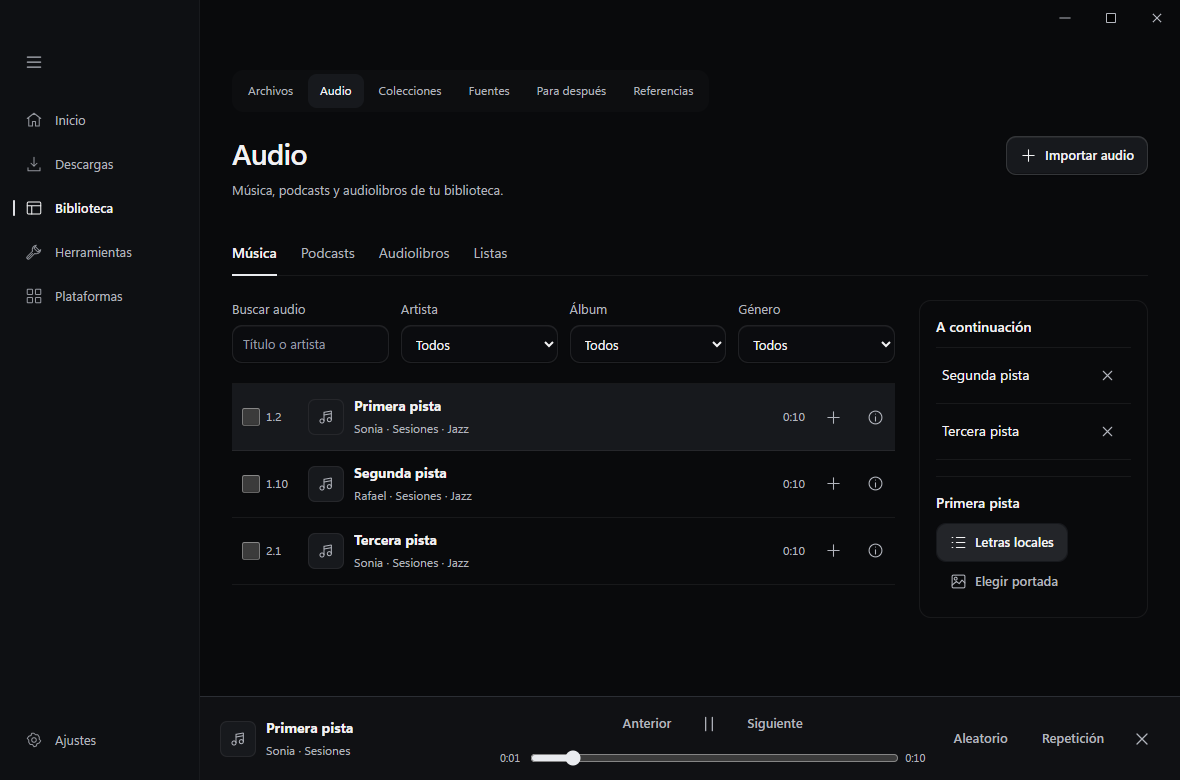
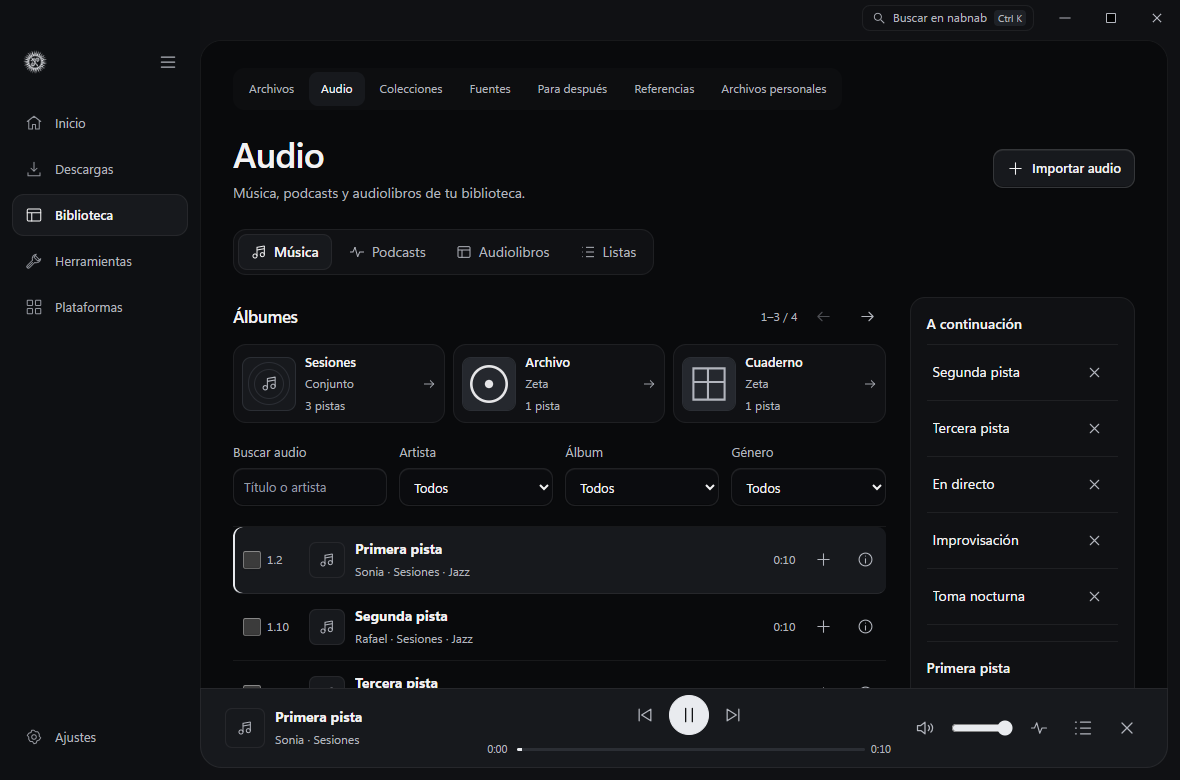
Improve audio browsing

diff --git a/src/audio-library-ui.ts b/src/audio-library-ui.ts
@@ -3,8 +3,9 @@ import { audioTitle, isAudiobook, type createAudioPlayer } from "./audio-player"
 import { escapeHtml as h, type Copy, type LibraryItem, type Snapshot } from "./contracts";
 import { detailsFor } from "./library-features";
 import type { AudioPlaylist, AudioPlaylistEntry, AudioTags, Lyric } from "./library-types";
+import { audiobookChapterComplete, audiobookResumePosition } from "./playback-preferences";
 import { durationLabel } from "./presentation";
-import { action, icon, option } from "./views-common";
+import { action, icon, option, type Icon } from "./views-common";
 
 type Category = "music" | "podcasts" | "books" | "playlists";
 type TagField = Exclude<keyof AudioTags, "embeddedCover">;
@@ -15,6 +16,7 @@ export type ImportPreview =
   | { kind: "csv"; id: string; name: string; columns: string[]; sample: string[][]; count: number }
   | { kind: "list"; name: string; rows: ImportedRow[] };
 const categories: Category[] = ["music", "podcasts", "books", "playlists"];
+const categoryIcons: Record<Category, Icon> = { music: "audio", podcasts: "wave", books: "library", playlists: "list" };
 const tagFields: TagField[] = ["title", "artist", "albumArtist", "album", "genre", "disc", "track"];
 const columns: Column[] = ["locator", "id", "title", "artist", "duration", "version"];
 const columnAliases: Record<Column, string[]> = {
@@ -25,6 +27,7 @@ const columnAliases: Record<Column, string[]> = {
 };
 const speeds = new Intl.Collator(undefined, { numeric: true, sensitivity: "base" });
 const PAGE_SIZE = 60;
+const SHELF_SIZE = 3;
 
 interface Hooks {
   snapshot(): Snapshot;
@@ -72,6 +75,7 @@ export function createAudioLibrary(hooks: Hooks) {
   let category: Category = "music";
   let artist = "", album = "", genre = "", book = "", query = "";
   let offset = 0;
+  let shelfOffset = 0;
   let selected = new Set<string>();
   let tagDraft: Partial<Record<TagField, string>> | null = null;
   let tagPreview = false;
@@ -154,6 +158,85 @@ export function createAudioLibrary(hooks: Hooks) {
         : category === "books" ? filterSelect("book", t("Libro", "Book"), books, book) : ""}</div>`;
   }
 
+  function cover(item: LibraryItem, kind: "album" | "book") {
+    const hasCover = !item.missing && (item.details?.audioCover || item.details?.audio?.embeddedCover);
+    return `<span class="audio-shelf-cover audio-shelf-cover--${kind}" ${hasCover ? `data-thumbnail-id="${h(item.id)}"` : ""} aria-hidden="true">${icon(kind === "album" ? "audio" : "library")}</span>`;
+  }
+
+  function shelf(items: LibraryItem[]) {
+    if (category !== "music" && category !== "books") return "";
+    const music = category === "music";
+    const chosen = music ? album : book;
+    const groupKey = music ? albumKey : bookKey;
+    const titleFor = (item: LibraryItem) => music ? item.details?.audio?.album || t("Sin álbum", "No album")
+      : item.details?.audiobook?.bookTitle || audioTitle(item);
+    if (chosen) {
+      return `<div class="audio-shelf-trail">${action("audio-shelf-clear", music ? t("Todos los álbumes", "All albums") : t("Todos los libros", "All books"), "back", "quiet")}${items[0] ? `<strong>${h(titleFor(items[0]))}</strong>` : ""}</div>`;
+    }
+
+    const groups = new Map<string, LibraryItem[]>();
+    for (const item of items) {
+      if (music && !item.details?.audio?.album) continue;
+      const key = groupKey(item);
+      const group = groups.get(key);
+      if (group) group.push(item); else groups.set(key, [item]);
+    }
+    if (!groups.size) return "";
+    const label = music ? t("Álbumes", "Albums") : t("Estantería", "Bookshelf");
+    const entries = [...groups.entries()];
+    shelfOffset = Math.min(shelfOffset, Math.floor((entries.length - 1) / SHELF_SIZE) * SHELF_SIZE);
+    return `<section class="audio-shelf" aria-label="${label}"><div class="audio-shelf-heading"><h2>${label}</h2>
+      ${entries.length > SHELF_SIZE ? `<div class="audio-shelf-navigation"><span>${shelfOffset + 1}–${Math.min(shelfOffset + SHELF_SIZE, entries.length)} / ${entries.length}</span>
+        ${action("audio-shelf-back", t("Grupos anteriores", "Previous groups"), "back", "icon-button", `aria-label="${t("Grupos anteriores", "Previous groups")}" ${shelfOffset ? "" : "disabled"}`)}
+        ${action("audio-shelf-next", t("Grupos siguientes", "Next groups"), "arrow", "icon-button", `aria-label="${t("Grupos siguientes", "Next groups")}" ${shelfOffset + SHELF_SIZE >= entries.length ? "disabled" : ""}`)}</div>` : ""}</div>
+      <ul class="audio-shelf-items">${entries.slice(shelfOffset, shelfOffset + SHELF_SIZE).map(([key, group]) => {
+        const item = group[0];
+        const art = group.find(candidate => !candidate.missing && (candidate.details?.audioCover || candidate.details?.audio?.embeddedCover)) ?? item;
+        const subtitle = music ? item.details?.audio?.albumArtist || item.details?.audio?.artist : item.details?.audiobook?.reader;
+        const chapters = !music && !item.details?.audiobook ? item.details?.chapters.length ?? 0 : 0;
+        const total = chapters || group.length;
+        const count = music ? (total === 1 ? t("pista", "track") : t("pistas", "tracks"))
+          : chapters || item.details?.audiobook ? (total === 1 ? t("capítulo", "chapter") : t("capítulos", "chapters"))
+          : (total === 1 ? t("archivo", "file") : t("archivos", "files"));
+        return `<li><button type="button" class="audio-shelf-item" data-action="audio-shelf-open" data-id="${h(key)}">
+          ${cover(art, music ? "album" : "book")}<span class="audio-shelf-copy"><strong>${h(titleFor(item))}</strong>${subtitle ? `<span>${h(subtitle)}</span>` : ""}<small>${total} ${count}</small></span>
+          ${icon("arrow")}</button></li>`;
+      }).join("")}</ul></section>`;
+  }
+
+  function continueBook(items: LibraryItem[]) {
+    if (category !== "books") return "";
+    const chapters = items.filter(item => !item.missing && (!book || bookKey(item) === book)).sort(compareChapters);
+    const books = new Map<string, LibraryItem[]>();
+    for (const chapter of chapters) {
+      const key = bookKey(chapter);
+      const group = books.get(key);
+      if (group) group.push(chapter); else books.set(key, [chapter]);
+    }
+    const recent = chapters.filter(item => (item.details?.playbackPosition ?? 0) > 0)
+      .sort((left, right) => (right.details?.lastPlayedAt ?? 0) - (left.details?.lastPlayedAt ?? 0));
+    const reviewed = new Set<string>();
+    for (const last of recent) {
+      const key = bookKey(last);
+      if (reviewed.has(key)) continue;
+      reviewed.add(key);
+      const group = books.get(key) ?? [];
+      const next = audiobookChapterComplete(last.details?.playbackPosition ?? 0, last.duration)
+        ? group.slice(group.indexOf(last) + 1).find(item => !audiobookChapterComplete(item.details?.playbackPosition ?? 0, item.duration))
+        : last;
+      if (!next) continue;
+      const chapter = next.details?.audiobook;
+      const title = chapter?.bookTitle ?? audioTitle(next);
+      const position = audiobookResumePosition(next.details?.playbackPosition ?? 0, next.duration);
+      const detail = [chapter ? `${t("Capítulo", "Chapter")} ${chapter.chapter}` : "",
+        position ? durationLabel(position) : t("Desde el principio", "From the start")].filter(Boolean).join(" · ");
+      return `<section class="audio-continue" aria-label="${t("Continuar audiolibro", "Continue audiobook")}">
+        ${cover(next, "book")}<div class="audio-continue-copy"><span>${t("Continuar audiolibro", "Continue audiobook")}</span><h2>${h(title)}</h2><small>${h(detail)}</small></div>
+        ${action("audio-continue-book", t("Continuar", "Continue"), "play", "primary", `data-id="${h(next.id)}" aria-label="${h(t("Continuar · ", "Continue · ") + title + " · " + detail)}"`)}</section>`;
+    }
+    return "";
+  }
+
   function row(item: LibraryItem) {
     const tags = item.details?.audio;
     const chapter = item.details?.audiobook;
@@ -163,7 +246,7 @@ export function createAudioLibrary(hooks: Hooks) {
     const sequence = chapter ? `${t("Cap.", "Ch.")} ${chapter.chapter}`
       : tags?.track ? `${tags.disc ? `${tags.disc}.` : ""}${tags.track}` : "";
     const attrs = `data-id="${h(item.id)}" ${item.missing ? "disabled" : ""}`;
-    return `<li class="audio-row ${player.current()?.id === item.id ? "is-playing" : ""}">
+    return `<li class="audio-row${chapter ? " is-chapter" : ""}${player.current()?.id === item.id ? " is-playing" : ""}">
       <input type="checkbox" data-action="audio-select" data-id="${h(item.id)}" aria-label="${h(t("Seleccionar ", "Select ") + title)}" ${selected.has(item.id) ? "checked" : ""} ${busy || !selected.has(item.id) && selected.size >= 200 ? "disabled" : ""}>
       <span class="audio-track-number">${h(sequence)}</span><span class="audio-cover"${item.details?.audioCover || tags?.embeddedCover ? ` data-thumbnail-id="${h(item.id)}"` : ""} aria-hidden="true">${icon("audio")}</span>
       <button class="audio-track" data-action="audio-play" ${attrs}><strong>${h(title)}</strong><small>${h(item.missing ? t("Archivo no encontrado", "File not found") : description || noMetadata())}</small></button>
@@ -282,14 +365,11 @@ export function createAudioLibrary(hooks: Hooks) {
   function render() {
     const { byCategory, results } = filterTracks(items());
     offset = Math.min(offset, Math.max(0, Math.floor((results.length - 1) / PAGE_SIZE) * PAGE_SIZE));
-    const currentBook = category === "books" ? results.filter(item => !item.missing && (item.details?.playbackPosition ?? 0) > 0 && (item.duration === null || detailsFor(item).playbackPosition < item.duration - 2))
-      .sort((left, right) => (right.details?.lastPlayedAt ?? 0) - (left.details?.lastPlayedAt ?? 0))[0] : undefined;
     return `<section class="audio-library"><div class="page-heading"><div><h1>${t("Audio", "Audio")}</h1>
       <p>${t("Música, podcasts y audiolibros de tu biblioteca.", "Music, podcasts and audiobooks from your library.")}</p></div>
       ${action("audio-import-media", t("Importar audio", "Import audio"), "add", "secondary", disabled())}</div>
-      <nav class="file-source-tabs" aria-label="${t("Tipo de audio", "Audio type")}">${categories.map(value => `<button type="button" data-action="audio-category" data-id="${value}" ${value === category ? 'aria-current="page"' : ""}>${categoryName(value)}</button>`).join("")}</nav>
-      <div class="audio-layout"><div class="audio-content">${category === "playlists" ? imported ? importView(imported) : playlistView() : `${filters(byCategory)}
-        ${currentBook ? action("audio-play", t("Continuar · ", "Continue · ") + audioTitle(currentBook), "play", "secondary", `data-id="${h(currentBook.id)}"`) : ""}
+      <nav class="audio-category-nav" aria-label="${t("Tipo de audio", "Audio type")}">${categories.map(value => `<button type="button" data-action="audio-category" data-id="${value}" ${value === category ? 'aria-current="page"' : ""}>${icon(categoryIcons[value])}${categoryName(value)}</button>`).join("")}</nav>
+      <div class="audio-layout"><div class="audio-content">${category === "playlists" ? imported ? importView(imported) : playlistView() : `${continueBook(byCategory)}${shelf(results)}${filters(byCategory)}
         ${selection()}${editTags()}${request ? `<p role="status" class="field-note">${t("Leyendo etiquetas locales…", "Reading local tags…")} ${action("audio-cancel-read", t("Cancelar", "Cancel"), undefined, "quiet")}</p>` : ""}
         ${results.length ? `<ol class="audio-rows">${results.slice(offset, offset + PAGE_SIZE).map(row).join("")}</ol>`
           : `<div class="empty-state">${icon("audio")}<h2>${t("Sin audio en esta vista", "No audio in this view")}</h2><p>${t("Importa archivos o cambia los filtros.", "Import files or change the filters.")}</p></div>`}
@@ -314,10 +394,10 @@ export function createAudioLibrary(hooks: Hooks) {
   }
 
   function playTrack(id: string) {
-    const results = filterTracks(items()).results;
+    const { byCategory, results } = filterTracks(items());
     const item = results.find(item => item.id === id);
     if (!item) return;
-    const ids = (category === "books" ? results.filter(candidate => bookKey(candidate) === bookKey(item)) : results).map(item => item.id);
+    const ids = (category === "books" ? byCategory.filter(candidate => bookKey(candidate) === bookKey(item)).sort(compareChapters) : results).map(item => item.id);
     lyricOpen = false;
     player.play(ids, ids.indexOf(id));
   }
@@ -330,9 +410,36 @@ export function createAudioLibrary(hooks: Hooks) {
       case "audio-import-media": hooks.importMedia(); break;
       case "audio-category":
         if (id === "music" || id === "books" || id === "podcasts" || id === "playlists") {
-          category = id; offset = 0; hooks.render();
+          category = id; offset = 0; shelfOffset = 0; hooks.render();
         } break;
       case "audio-play": playTrack(id); break;
+      case "audio-continue-book": {
+        const item = itemFor(id);
+        if (category !== "books" || !item || !isAudiobook(item)) break;
+        book = bookKey(item); query = ""; offset = 0;
+        playTrack(id);
+        document.querySelector<HTMLElement>(".audio-continue [data-action='audio-continue-book']")?.focus({ preventScroll: true });
+      } break;
+      case "audio-shelf-open":
+        if (category === "music") album = id;
+        else if (category === "books") book = id;
+        offset = 0; hooks.render();
+        document.querySelector<HTMLElement>(".audio-shelf-trail button")?.focus({ preventScroll: true });
+        break;
+      case "audio-shelf-clear": {
+        const key = category === "books" ? book : album;
+        if (category === "music") album = "";
+        else if (category === "books") book = "";
+        offset = 0; hooks.render();
+        document.querySelector<HTMLElement>(`.audio-shelf-item[data-id="${CSS.escape(key)}"]`)?.focus({ preventScroll: true });
+      } break;
+      case "audio-shelf-back":
+      case "audio-shelf-next": {
+        shelfOffset = Math.max(0, shelfOffset + (name === "audio-shelf-next" ? SHELF_SIZE : -SHELF_SIZE));
+        hooks.render();
+        const direction = document.querySelector<HTMLButtonElement>(`[data-action="${name}"]:not(:disabled)`);
+        (direction ?? document.querySelector<HTMLElement>(".audio-shelf-item"))?.focus({ preventScroll: true });
+      } break;
       case "audio-inspect": hooks.inspect(id); break;
       case "audio-add-queue": player.add(id); break;
       case "audio-remove-queue": player.remove(index); break;
@@ -453,7 +560,7 @@ export function createAudioLibrary(hooks: Hooks) {
   function input(element: HTMLElement): boolean {
     if (element instanceof HTMLInputElement) {
       if (element.id === "audio-csv-ms") { milliseconds = element.checked; return true; }
-      if (element.id === "audio-query") { query = element.value; offset = 0; hooks.render(); return true; }
+      if (element.id === "audio-query") { query = element.value; offset = 0; shelfOffset = 0; hooks.render(); return true; }
       if (element.id === "audio-playlist-name" && editing) { editing.name = element.value; return true; }
       if (element.dataset.action === "audio-select" && element.dataset.id) {
         if (element.checked && selected.size < 200) selected.add(element.dataset.id); else selected.delete(element.dataset.id);
@@ -492,6 +599,7 @@ export function createAudioLibrary(hooks: Hooks) {
       default: return false;
     }
     offset = 0;
+    shelfOffset = 0;
     hooks.render();
     return true;
   }

diff --git a/src/audio-library.css b/src/audio-library.css
@@ -1,6 +1,40 @@
 .audio-library { min-width: 0; }
+.audio-category-nav { display: flex; flex-wrap: wrap; gap: 4px; width: fit-content; max-width: 100%; padding: 4px; margin: 0 0 22px; border: 1px solid var(--edge-quiet); border-radius: 13px; background: var(--secondary); }
+.audio-category-nav button { display: flex; align-items: center; gap: 7px; min-height: 36px; padding: 6px 12px; border: 1px solid transparent; border-radius: 9px; background: transparent; color: var(--muted); font: inherit; cursor: pointer; }
+.audio-category-nav button:hover { background: var(--hover); color: var(--text); }
+.audio-category-nav button[aria-current="page"] { background: var(--surface); border-color: var(--edge-quiet); color: var(--text); font-weight: 600; }
+.audio-category-nav svg { width: 16px; height: 16px; flex: none; }
 .audio-layout { display: grid; grid-template-columns: minmax(0, 1fr) minmax(185px, 25%); gap: 24px; align-items: start; }
 .audio-content { min-width: 0; }
+.audio-shelf { margin-bottom: 20px; }
+.audio-shelf-heading, .audio-shelf-navigation, .audio-shelf-trail { display: flex; align-items: center; gap: 8px; }
+.audio-shelf-heading { min-height: 30px; justify-content: space-between; margin-bottom: 8px; }
+.audio-shelf-heading h2 { margin: 0; font-size: 17px; font-weight: 600; letter-spacing: -.025em; }
+.audio-shelf-navigation > span { color: var(--muted); font-size: 12px; font-variant-numeric: tabular-nums; }
+.audio-shelf-navigation .icon-button { min-width: 34px; min-height: 34px; }
+.audio-shelf-items { display: grid; grid-template-columns: repeat(auto-fill, minmax(min(100%, 178px), 1fr)); gap: 8px; padding: 0; margin: 0; list-style: none; }
+.audio-shelf-items li { min-width: 0; }
+.audio-shelf-item { display: grid; grid-template-columns: 54px minmax(0, 1fr) 14px; align-items: center; gap: 9px; min-height: 76px; width: 100%; padding: 8px; border: 1px solid var(--edge-quiet); border-radius: 13px; background: var(--secondary); color: var(--text); text-align: start; font: inherit; cursor: pointer; }
+.audio-shelf-item:hover { background: var(--hover); }
+.audio-shelf-item > svg { width: 14px; height: 14px; color: var(--muted); }
+.audio-category-nav button:focus-visible, .audio-shelf-item:focus-visible { outline: 2px solid var(--action); outline-offset: 2px; }
+.audio-shelf-cover { position: relative; width: 54px; height: 54px; display: grid; place-items: center; flex: none; overflow: hidden; border: 1px solid var(--border); border-radius: 9px; background: var(--surface); color: var(--muted); }
+.audio-shelf-cover > svg { position: relative; width: 17px; height: 17px; }
+.audio-shelf-cover > img { width: 100%; height: 100%; object-fit: cover; }
+.audio-shelf-cover--album:has(> svg)::before, .audio-shelf-cover--album:has(> svg)::after { content: ""; position: absolute; width: 78%; aspect-ratio: 1; border: 1px solid var(--border); border-radius: 50%; }
+.audio-shelf-cover--album:has(> svg)::after { width: 54%; }
+.audio-shelf-cover--book:has(> svg)::before { content: ""; position: absolute; inset: 6px 8px; border: 1px solid var(--border); border-inline-start-width: 4px; border-radius: 5px; }
+.audio-shelf-copy, .audio-continue-copy { display: grid; gap: 3px; min-width: 0; }
+.audio-shelf-copy > * { overflow: hidden; white-space: nowrap; text-overflow: ellipsis; }
+.audio-shelf-copy strong { font-size: 13px; font-weight: 600; }
+.audio-shelf-copy span, .audio-shelf-copy small, .audio-continue-copy small { color: var(--muted); font-size: 12px; }
+.audio-shelf-trail { flex-wrap: wrap; min-height: 34px; margin-bottom: 12px; }
+.audio-shelf-trail strong { overflow-wrap: anywhere; font-size: 14px; }
+.audio-continue { display: flex; flex-wrap: wrap; align-items: center; gap: 12px; padding: 14px; margin-bottom: 18px; border: 1px solid var(--border); border-radius: 16px; background: var(--surface); }
+.audio-continue-copy { flex: 1 1 140px; }
+.audio-continue-copy > span { color: var(--muted); font-size: 11px; font-weight: 600; }
+.audio-continue-copy h2 { margin: 0; font-size: 17px; font-weight: 600; letter-spacing: -.02em; overflow-wrap: anywhere; }
+.audio-continue .button { margin-inline-start: auto; }
 .audio-filters, .audio-tag-fields, .audio-add-list { display: flex; flex-wrap: wrap; align-items: end; gap: 12px; }
 .audio-filters { margin-bottom: 20px; }
 .audio-filters label, .audio-add-list label, .audio-editor > label, .audio-tag-fields > div { display: grid; gap: 6px; min-width: 0; }
@@ -11,7 +45,8 @@
   display: grid; gap: 10px; align-items: center; min-width: 0; padding: 8px 6px; border-bottom: 1px solid var(--edge-quiet);
 }
 .audio-row { grid-template-columns: 18px 32px 36px minmax(0, 1fr) auto 32px 32px; }
-.audio-row.is-playing { background: var(--surface); }
+.audio-row.is-chapter { grid-template-columns: 18px 48px 36px minmax(0, 1fr) auto 32px 32px; }
+.audio-row.is-playing { border-radius: 9px; background: var(--surface); box-shadow: inset 2px 0 var(--action); }
 .audio-track, .audio-open {
   min-width: 0; display: grid; gap: 3px; text-align: left; justify-content: start; padding: 4px 0; background: none;
   border: 0; border-radius: 4px; color: var(--text); cursor: pointer;
@@ -23,13 +58,14 @@
 .audio-track:disabled { cursor: default; color: var(--muted); }
 .audio-track small, .audio-open small, .audio-playlist-entry small, .audio-track-number, .audio-track-duration { color: var(--muted); font-size: 12px; }
 .audio-track-duration { font-variant-numeric: tabular-nums; }
+.audio-track-number { overflow: hidden; white-space: nowrap; text-overflow: ellipsis; font-variant-numeric: tabular-nums; }
 .audio-cover {
   width: 36px; aspect-ratio: 1; display: grid; place-items: center; overflow: hidden;
   color: var(--muted); background: var(--surface); border: 1px solid var(--edge-quiet); border-radius: 7px;
 }
 .audio-cover > svg { width: 16px; height: 16px; }
 .audio-cover > img { width: 100%; height: 100%; object-fit: cover; }
-.audio-context { min-width: 0; padding: 16px; border: 1px solid var(--edge-quiet); border-radius: 12px; }
+.audio-context { min-width: 0; padding: 16px; border: 1px solid var(--edge-quiet); border-radius: 15px; background: var(--secondary); }
 .audio-context h2 { font-size: 14px; overflow-wrap: anywhere; margin: 0 0 10px; }
 .audio-current { padding-top: 16px; margin-top: 16px; border-top: 1px solid var(--edge-quiet); }
 .audio-current .button { white-space: normal; text-align: start; max-width: 100%; overflow-wrap: anywhere; }
@@ -102,9 +138,20 @@
   #audio-transport { grid-template-columns: minmax(105px, 1fr) minmax(160px, 1.35fr) auto; gap: 8px; }
   .audio-player { padding-inline: 12px; }
 }
+@media (max-height: 700px) {
+  body:not([data-page="home"]) #page-content .audio-library > .page-heading { margin-bottom: 18px; }
+  .audio-library > .page-heading p { display: none; }
+  .audio-category-nav, .audio-shelf, .audio-library .audio-filters { margin-bottom: 14px; }
+}
 @media (max-width: 720px) {
+  .audio-category-nav button { padding-inline: 8px; }
   #audio-transport { grid-template-columns: minmax(0, 1fr) minmax(0, 1.4fr); }
   .audio-playback-options { grid-column: 1 / -1; justify-content: start; }
   .audio-row { grid-template-columns: 18px 32px minmax(0, 1fr) auto 32px 32px; }
+  .audio-row.is-chapter { grid-template-columns: 18px 48px minmax(0, 1fr) auto 32px 32px; }
   .audio-row > .audio-cover { display: none; }
+}
+@media (forced-colors: active) {
+  .audio-category-nav button[aria-current="page"] { border-color: Highlight; }
+  .audio-row.is-playing { outline: 1px solid Highlight; outline-offset: -1px; }
 }

diff --git a/src/audio-player.ts b/src/audio-player.ts
@@ -2,7 +2,7 @@ import { escapeHtml as h, localMediaUrl, type Copy, type LibraryItem } from "./c
 import { detailsFor } from "./library-features";
 import type { AudioPlaylist, LocalTrack } from "./library-types";
 import type { createSceneControls } from "./music-scene-controls";
-import { isPlayable, playbackRates, readPlayback, resumePosition, savePlayback } from "./playback-preferences";
+import { audiobookResumePosition, isPlayable, playbackRates, readPlayback, resumePosition, savePlayback } from "./playback-preferences";
 import { connectPlaybackSignal } from "./playback-signal";
 import { createPlaybackStage, type StageState } from "./playback-stage";
 import { durationLabel } from "./presentation";
@@ -171,7 +171,8 @@ export function createAudioPlayer(hooks: Hooks) {
   function persist() {
     const item = current();
     if (!media || !item || !matchesSource() || media.readyState === 0 || resumeChoice || pendingSeek !== null || !Number.isFinite(media.currentTime)) return;
-    const position = media.ended ? 0 : media.currentTime;
+    const position = !media.ended ? media.currentTime
+      : isAudiobook(item) ? item.duration ?? media.currentTime : 0;
     const details = detailsFor(item);
     const playedAudio = item.kind === "audio" && media.currentTime > 0;
     if (details.playbackPosition === position && (!playedAudio || details.lastPlayedAt)) return;
@@ -421,9 +422,11 @@ export function createAudioPlayer(hooks: Hooks) {
     stoppedBySleep = false;
     issue = "";
     ++sourceRevision;
-    const longAudio = isAudiobook(item) || item.details?.platform === "Podcast RSS" || (item.duration ?? 0) >= 30 * 60;
+    const book = isAudiobook(item);
+    const resumeAt = book ? audiobookResumePosition : resumePosition;
+    const longAudio = book || item.details?.platform === "Podcast RSS" || (item.duration ?? 0) >= 30 * 60;
     const progress = resume && (item.kind === "video" || longAudio || item.id === resumeAudioId || preferences.resumeMusic)
-      ? resumePosition(detailsFor(item).playbackPosition, item.duration) : 0;
+      ? resumeAt(detailsFor(item).playbackPosition, item.duration) : 0;
     resumeChoice = item.kind === "video" && openVideo && autoplay ? progress : 0;
     pendingSeek = progress && !resumeChoice ? progress : null;
     mediaState = "loading";
@@ -631,11 +634,13 @@ export function createAudioPlayer(hooks: Hooks) {
     });
     element.addEventListener("ended", () => {
       if (!matchesSource() || !element.ended) return;
+      const item = current();
       mediaState = "ended";
       persist();
       updateTime();
       if (sleep === "chapter") sleepNow();
       else if (!stoppedBySleep) move(1, false);
+      if (item && isAudiobook(item) && currentId() === item.id) hooks.render();
     });
     element.addEventListener("error", () => {
       if (!expectedSource || element.src !== expectedSource || !element.error) return;

diff --git a/src/playback-preferences.ts b/src/playback-preferences.ts
@@ -33,6 +33,14 @@ export function isPlayable(item: LibraryItem | undefined): item is LibraryItem &
   return Boolean(item && !item.missing && (item.kind === "audio" || item.kind === "video"));
 }
 
+export function audiobookChapterComplete(position: number, duration?: number | null): boolean {
+  return Number.isFinite(position) && typeof duration === "number" && duration > 0 && position >= duration;
+}
+
+export function audiobookResumePosition(position: number, duration?: number | null): number {
+  return Number.isFinite(position) && position > 0 && !audiobookChapterComplete(position, duration) ? position : 0;
+}
+
 export function resumePosition(position: number, duration?: number | null): number {
   if (!Number.isFinite(position) || position < 3) return 0;
   if (duration && Number.isFinite(duration)) {

diff --git a/docs/AUDIO-LIBRARY.md b/docs/AUDIO-LIBRARY.md
@@ -1,10 +1,10 @@
 # Biblioteca de audio
 
-En **Biblioteca → Audio** puedes alternar entre Música, Podcasts, Audiolibros y Listas. Música agrupa y ordena las pistas por artista del álbum, álbum, disco y número de pista. Filtra por artista, álbum o género. Si un archivo antiguo aparece sin etiquetas, selecciónalo y usa **Leer etiquetas pendientes**.
+En **Biblioteca → Audio** puedes alternar entre Música, Podcasts, Audiolibros y Listas. En Música, elige una tarjeta de **Álbumes** para ver sus pistas, ordenadas por disco y número. La estantería usa portadas locales o incrustadas cuando están disponibles. También puedes filtrar por artista, álbum o género. Si un archivo antiguo aparece sin etiquetas, selecciónalo y usa **Leer etiquetas pendientes**.
 
 El minirreproductor permanece visible al cambiar de sección. La cola **A continuación** es independiente de Descargas. En música, puedes activar el modo aleatorio y alternar entre repetir toda la cola o repetir una pista. Las teclas multimedia usan los controles que expone Media Session en el WebView. Las carátulas incrustadas utilizan la caché de miniaturas de nabnab.
 
-Los audiolibros agrupan capítulos de LibriVox y reconocen archivos M4B. **Continuar** recupera la posición guardada. El minirreproductor ofrece velocidad, retroceso de 15 segundos y temporizador por minutos o al final del capítulo. Los marcadores se guardan en Biblioteca. Si hay capítulos incrustados, se puede saltar a ellos.
+La **Estantería** de audiolibros agrupa capítulos de LibriVox y reconoce archivos M4B. **Continuar** recupera el punto guardado del capítulo o abre el siguiente si el anterior llegó al final. La cola de capítulos se limita al libro que estás escuchando. El minirreproductor ofrece velocidad, retroceso de 15 segundos y temporizador por minutos o al final del capítulo. Los marcadores se guardan en Biblioteca. Si hay capítulos incrustados, se puede saltar a ellos.
 
 Selecciona pistas para crear una lista, añadirlas a una existente o editar sus etiquetas. Puedes cambiar el orden y quitar entradas desde **Listas → Editar lista**. La previsualización de etiquetas muestra los campos que cambiarán. **Guardar etiquetas** actualiza la base de nabnab. **Crear copias con etiquetas** usa la cola para generar archivos nuevos y compara la huella de los flujos de audio antes de incorporarlos a Biblioteca. Se probaron MP3, M4A, M4B, FLAC, OGG y Opus con los motores de producción. Los originales se conservan.
 
@@ -14,9 +14,11 @@ Desde la pista actual, **Elegir portada** permite asociar un JPEG, PNG o WebP lo
 
 En **Listas → Importar lista** puedes abrir M3U, M3U8, PLS o CSV en UTF-8. En CSV, confirma las columnas y la unidad de duración. nabnab reconoce identificadores y rutas de archivos que ya están en Biblioteca. Las coincidencias por título, artista, duración o versión son sugerencias. Puedes escoger la grabación o conservar la referencia remota o ausente. La lista conserva el orden y las URLs importadas permanecen como referencias.
 
-La prueba de interfaz reproduce un WAV silencioso en Edge con almacenamiento de escritorio simulado. Comprueba el orden por disco y pista, la continuidad del reproductor, el descanso de audiolibros, las letras y la edición de listas y etiquetas. Las teclas físicas del sistema requieren una prueba en el WebView de escritorio.
+La prueba de interfaz reproduce un WAV silencioso en Edge con almacenamiento de escritorio simulado. Comprueba el orden por disco y pista, la estantería con teclado, la continuidad del reproductor, el descanso de audiolibros, las letras y la edición de listas y etiquetas. La prueba nativa usa audio sintético y verifica que, después de reiniciar nabnab, **Continuar** abre el capítulo siguiente de un libro cuyo capítulo anterior terminó. Las teclas físicas del sistema requieren una prueba en el WebView de escritorio.
 
 ![Biblioteca de audio y minirreproductor persistente con datos de prueba](audio-library-preview.png)
+
+![Estantería de audiolibros y continuación en el capítulo siguiente con datos de prueba](audio-bookshelf.png)
 
 ![Revisión de una lista importada y elección de una grabación local](audio-playlist-matching.png)
 
